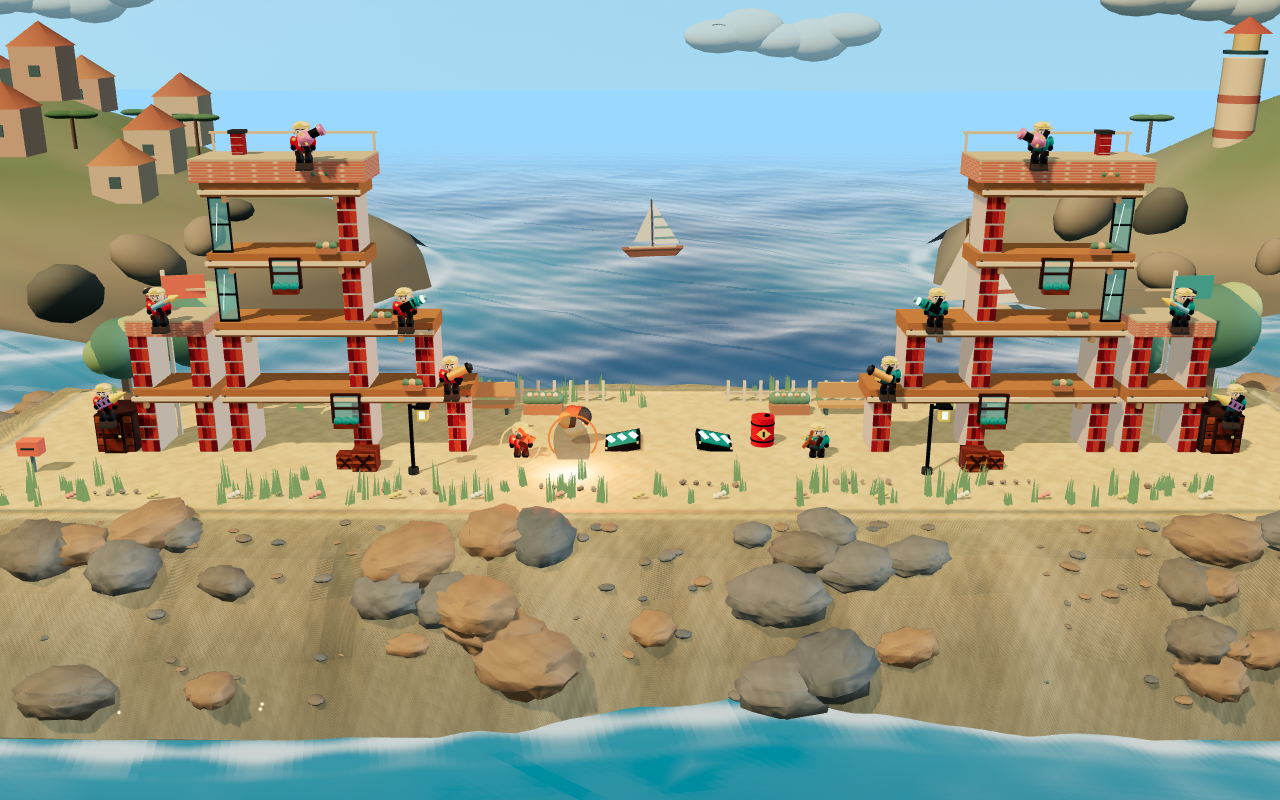
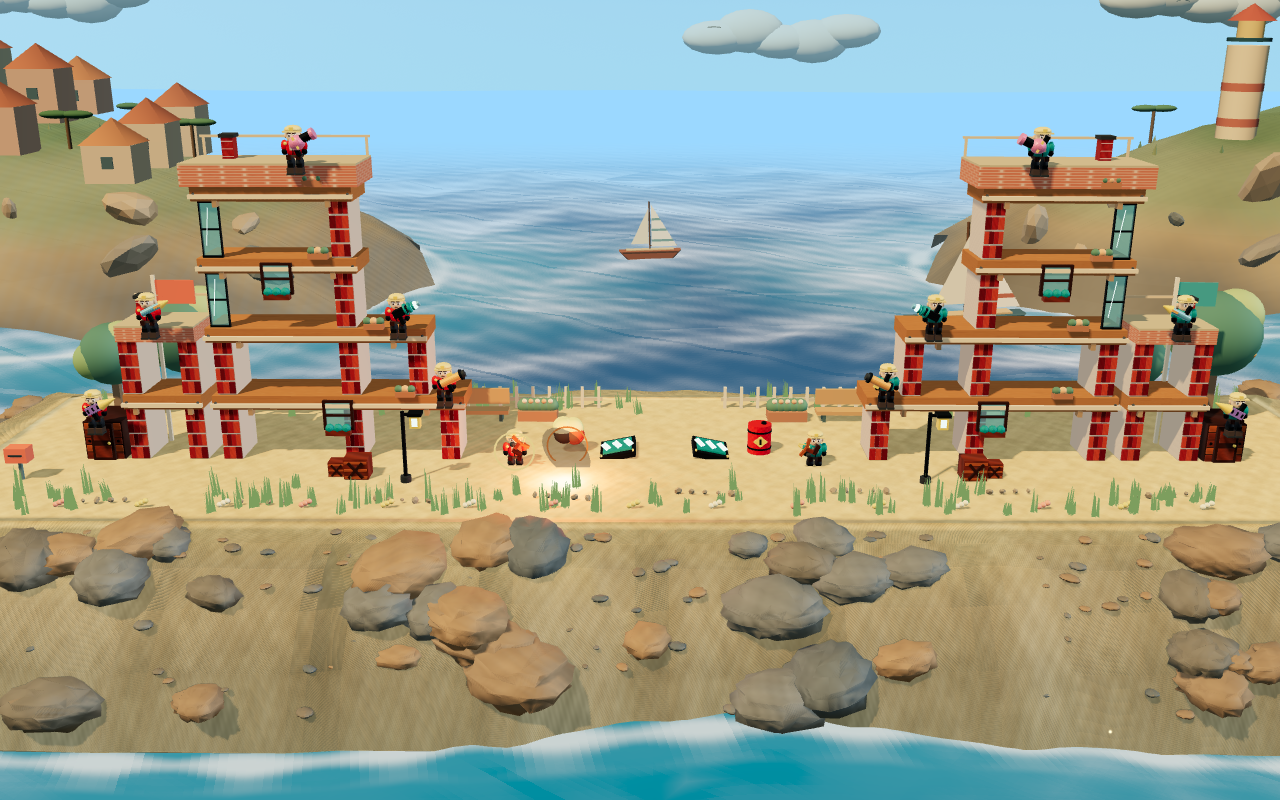
feat: overhaul headlands environment with procedural shaders, PBR materials, and scrub scatter

diff --git a/public/environment.js b/public/environment.js
@@ -206,7 +206,14 @@ export function createEnvironment(scene, renderer) {
     const object = new T.Mesh(geometry, material(color)); object.position.set(...position); object.scale.set(...scale);
     object.castShadow = false; object.receiveShadow = false; parent.add(object); return object;
   }
-  const rock = new T.IcosahedronGeometry(1, 1), ball = new T.SphereGeometry(1, 12, 8);
+  const rock = new T.IcosahedronGeometry(1, constrained ? 1 : 2), ball = new T.SphereGeometry(1, 12, 8);
+  const rockPositions = rock.attributes.position;
+  for (let i = 0; i < rockPositions.count; i++) {
+    const x = rockPositions.getX(i), y = rockPositions.getY(i), z = rockPositions.getZ(i);
+    const variation = 1 + Math.sin(x * 7.1 + z * 4.3) * .1 + Math.sin(y * 9.7 - x * 3.4) * .055;
+    rockPositions.setXYZ(i, x * variation * 1.08, y * variation * .82, z * variation);
+  }
+  rock.computeVertexNormals();
   const cube = new T.BoxGeometry(1, 1, 1), cylinder = new T.CylinderGeometry(1, 1, 1, 12);
   const roofGeometry = new T.ConeGeometry(1, 1, 4);
   const headlands = [
@@ -214,45 +221,86 @@ export function createEnvironment(scene, renderer) {
     { side: 1, x: 60, z: -54, rx: 39, rz: 24 }
   ];
   function coastHeight(land, x, z) {
-    const r = Math.min(1, Math.hypot((x - land.x) / land.rx, (z - land.z) / land.rz));
-    return -4.65 + 16 * Math.pow(1 - r, .7)
-      + (Math.sin(x * .27 + z * .11) + Math.sin(x * .53 - z * .38) * .45) * (1 - r) * 2.2;
+    const dx = (x - land.x) / land.rx, dz = (z - land.z) / land.rz;
+    const r = Math.min(1, Math.hypot(dx, dz)), angle = Math.atan2(dz, dx);
+    const ridge = Math.sin(angle * 3 + land.side * .8) * .8 + Math.sin(angle * 7 - r * 5) * .34;
+    const erosion = Math.sin(x * .22 + z * .13) * .72 + Math.sin(x * .49 - z * .31) * .3;
+    const cliff = Math.sin(angle * 11 + r * 8) * Math.pow(r, 4) * .34;
+    return -4.65 + 16.4 * Math.pow(1 - r, .68) + (ridge + erosion) * (1 - r) * 1.25 + cliff;
   }
+  const headlandNormal = normalMap(19); headlandNormal.repeat.set(5, 3); headlandNormal.anisotropy = Math.min(8, renderer.capabilities.getMaxAnisotropy());
+  const headlandMaterial = new T.MeshStandardMaterial({ vertexColors: true, side: T.DoubleSide, roughness: .94, metalness: 0, normalMap: headlandNormal, normalScale: new T.Vector2(.34, .34), envMapIntensity: .32 });
+  headlandMaterial.onBeforeCompile = shader => {
+    shader.vertexShader = shader.vertexShader.replace('#include <common>', `
+      #include <common>
+      varying vec3 vHeadlandWorld;
+    `).replace('#include <begin_vertex>', `
+      #include <begin_vertex>
+      vHeadlandWorld = (modelMatrix * vec4(transformed, 1.0)).xyz;
+    `);
+    shader.fragmentShader = shader.fragmentShader.replace('#include <common>', `
+      #include <common>
+      varying vec3 vHeadlandWorld;
+      float coastHash(vec2 p) { return fract(sin(dot(p, vec2(127.1, 311.7))) * 43758.5453); }
+      float coastNoise(vec2 p) {
+        vec2 i = floor(p), f = fract(p); f = f * f * (3.0 - 2.0 * f);
+        return mix(mix(coastHash(i), coastHash(i + vec2(1., 0.)), f.x), mix(coastHash(i + vec2(0., 1.)), coastHash(i + 1.), f.x), f.y);
+      }
+    `).replace('#include <color_fragment>', `
+      #include <color_fragment>
+      float coastMacro = coastNoise(vHeadlandWorld.xz * .095);
+      float coastGrain = coastNoise(vHeadlandWorld.xz * .72 + coastMacro * 2.4);
+      diffuseColor.rgb *= .86 + coastMacro * .2 + coastGrain * .07;
+      float strata = smoothstep(.46, .54, sin(vHeadlandWorld.y * 2.15 + coastMacro * 2.0) * .5 + .5);
+      diffuseColor.rgb = mix(diffuseColor.rgb, diffuseColor.rgb * vec3(.83, .79, .72), strata * .12);
+    `).replace('#include <roughnessmap_fragment>', `
+      #include <roughnessmap_fragment>
+      roughnessFactor = clamp(roughnessFactor + (coastGrain - .5) * .08, .82, 1.0);
+    `);
+  };
+  headlandMaterial.customProgramCacheKey = () => 'headland-pbr-v2';
+  const headlandRockMaterial = new T.MeshStandardMaterial({ color: 0xffffff, roughness: .91, metalness: 0, envMapIntensity: .38 });
   for (const land of headlands) {
-    // Concentric height rings form real sloped terrain rather than stacked giant rocks.
-    const segments = 28, radii = [0, .18, .36, .54, .7, .84, .94, 1];
-    const vertices = [], colors = [], indices = [];
-    for (const r of radii) for (let i = 0; i < segments; i++) {
+    // A radial LOD mesh gives the distant coast a clean silhouette without a heavy GLB.
+    const segments = constrained ? 44 : 72, ringCount = constrained ? 11 : 17;
+    const vertices = [land.x, coastHeight(land, land.x, land.z), land.z], colors = [], uvs = [.5, .5], indices = [];
+    const centerColor = new T.Color(0x718a63); colors.push(centerColor.r, centerColor.g, centerColor.b);
+    for (let ring = 1; ring <= ringCount; ring++) for (let i = 0; i < segments; i++) {
+      const r = ring / ringCount;
       const angle = i / segments * Math.PI * 2;
-      const edge = 1 + (Math.sin(angle * 5 + land.side) * .045 + Math.sin(angle * 9) * .025) * r;
+      const edge = 1 + (Math.sin(angle * 5 + land.side) * .04 + Math.sin(angle * 9) * .022 + Math.sin(angle * 17) * .009) * r;
       const x = land.x + Math.cos(angle) * land.rx * r * edge;
       const z = land.z + Math.sin(angle) * land.rz * r * edge;
       const y = coastHeight(land, x, z);
       vertices.push(x, y, z);
-      const color = new T.Color(y > 4 ? 0x829973 : y > 0 ? 0x99a084 : y > -2 ? 0xa6a08d : 0x82837a);
-      color.multiplyScalar(.92 + .08 * Math.sin(x * .45 + z * .31));
+      const color = new T.Color(y > 5.5 ? 0x718a63 : y > 1.2 ? 0x87916f : y > -1.5 ? 0x9b8d70 : 0x77756a);
+      color.multiplyScalar(.9 + .09 * Math.sin(x * .37 + z * .23) + .035 * Math.sin(x * 1.3 - z));
       colors.push(color.r, color.g, color.b);
+      uvs.push((x - land.x) / land.rx * 2.5 + .5, (z - land.z) / land.rz * 2.5 + .5);
     }
-    for (let ring = 0; ring < radii.length - 1; ring++) for (let i = 0; i < segments; i++) {
-      const a = ring * segments + i, b = ring * segments + (i + 1) % segments;
-      const c = (ring + 1) * segments + i, d = (ring + 1) * segments + (i + 1) % segments;
+    for (let i = 0; i < segments; i++) indices.push(0, 1 + i, 1 + (i + 1) % segments);
+    for (let ring = 1; ring < ringCount; ring++) for (let i = 0; i < segments; i++) {
+      const a = 1 + (ring - 1) * segments + i, b = 1 + (ring - 1) * segments + (i + 1) % segments;
+      const c = 1 + ring * segments + i, d = 1 + ring * segments + (i + 1) % segments;
       indices.push(a, b, c, b, d, c);
     }
     const terrain = new T.BufferGeometry(); terrain.setAttribute('position', new T.Float32BufferAttribute(vertices, 3));
-    terrain.setAttribute('color', new T.Float32BufferAttribute(colors, 3)); terrain.setIndex(indices); terrain.computeVertexNormals();
-    const coast = new T.Mesh(terrain, new T.MeshLambertMaterial({ vertexColors: true, side: T.DoubleSide }));
+    terrain.setAttribute('color', new T.Float32BufferAttribute(colors, 3)); terrain.setAttribute('uv', new T.Float32BufferAttribute(uvs, 2)); terrain.setIndex(indices); terrain.computeVertexNormals();
+    const coast = new T.Mesh(terrain, headlandMaterial);
     coast.name = land.side < 0 ? 'Village headland' : 'Lighthouse headland'; scene.add(coast);
-    const stones = new T.InstancedMesh(rock, material(0xffffff), 14), instance = new T.Object3D();
-    stones.name = 'Headland rock clusters'; scene.add(stones);
-    for (let i = 0; i < 14; i++) {
-      const angle = .13 * Math.PI + i / 13 * .74 * Math.PI;
-      const r = .76 + i % 4 * .055;
+    const stoneCount = constrained ? 22 : 38;
+    const stones = new T.InstancedMesh(rock, headlandRockMaterial, stoneCount), instance = new T.Object3D();
+    stones.name = 'Headland rock clusters'; stones.receiveShadow = true; scene.add(stones);
+    for (let i = 0; i < stoneCount; i++) {
+      const angle = .1 * Math.PI + i / Math.max(1, stoneCount - 1) * .8 * Math.PI;
+      const r = .68 + (i * 7 % 17) / 17 * .29;
       const x = land.x + Math.cos(angle) * land.rx * r, z = land.z + Math.sin(angle) * land.rz * r;
-      const size = 1.0 + i % 5 * .4;
-      instance.position.set(x, coastHeight(land, x, z) + size * .28, z);
-      instance.scale.set(size * 1.4, size * .8, size); instance.rotation.set(i * .13, i * 1.7, i * .3); instance.updateMatrix();
-      stones.setMatrixAt(i, instance.matrix); stones.setColorAt(i, new T.Color(i % 3 ? 0xa39d8c : 0x787e77));
+      const size = .55 + (i * 11 % 9) * .17;
+      instance.position.set(x, coastHeight(land, x, z) + size * .22, z);
+      instance.scale.set(size * (1.1 + i % 3 * .18), size * (.62 + i % 4 * .07), size); instance.rotation.set(i * .17, i * 1.37, i * .23); instance.updateMatrix();
+      stones.setMatrixAt(i, instance.matrix); stones.setColorAt(i, new T.Color([0x8e897b, 0xa3947c, 0x6f7772, 0xb09a7b][i % 4]));
     }
+    stones.instanceMatrix.needsUpdate = true; if (stones.instanceColor) stones.instanceColor.needsUpdate = true;
     stones.computeBoundingSphere();
   }
   // The left slope carries a small stepped village; roofs follow the terrain.
@@ -293,6 +341,19 @@ export function createEnvironment(scene, renderer) {
     treeIndex++;
   }
   trunks.computeBoundingSphere(); leaves.computeBoundingSphere();
+  const shrubCount = constrained ? 28 : 48;
+  const shrubGeometry = new T.ConeGeometry(.42, 1.15, 5);
+  shrubGeometry.translate(0, .55, 0);
+  const shrubs = new T.InstancedMesh(shrubGeometry, new T.MeshStandardMaterial({ color: 0xffffff, roughness: .96 }), shrubCount);
+  shrubs.name = 'Headland scrub scatter'; scene.add(shrubs);
+  for (let i = 0; i < shrubCount; i++) {
+    const land = headlands[i % 2], angle = i * 2.399 + (land.side < 0 ? .4 : 1.1), r = .42 + (i * 5 % 13) / 13 * .39;
+    const x = land.x + Math.cos(angle) * land.rx * r, z = land.z + Math.sin(angle) * land.rz * r;
+    const size = .42 + (i * 7 % 6) * .09;
+    instance.position.set(x, coastHeight(land, x, z), z); instance.rotation.set(0, angle + i * .31, (i % 3 - 1) * .08); instance.scale.set(size * .72, size, size * .72); instance.updateMatrix();
+    shrubs.setMatrixAt(i, instance.matrix); shrubs.setColorAt(i, new T.Color(i % 3 ? 0x607957 : 0x7d875c));
+  }
+  shrubs.instanceMatrix.needsUpdate = true; if (shrubs.instanceColor) shrubs.instanceColor.needsUpdate = true; shrubs.computeBoundingSphere();
   const lighthouseLand = headlands[1], lighthouse = new T.Group();
   lighthouse.position.set(43, coastHeight(lighthouseLand, 43, -51), -51); scene.add(lighthouse);
   shape(cylinder, 0xffe8c4, [0, 3.3, 0], [1.4, 6.6, 1.4], lighthouse);
@@ -354,6 +415,8 @@ export function createEnvironment(scene, renderer) {
     waterMode: 'gerstner-lod',
     waterReflection: 'pmrem-hdr',
     shorelineFoam: 'terrain-depth',
+    headlandQuality: constrained ? 'pbr-radial-balanced' : 'pbr-radial-high',
+    headlandScatter: constrained ? 72 : 124,
     waterQuality: constrained ? 'balanced' : 'high',
     motionLayers: 'gerstner-water-boats-clouds-spray',
     motionSample: () => ({ waveTime: waterMaterials[0].uniforms.uTime.value, boatX: boats[0].position.x, cloudX: clouds[0].position.x }),

diff --git a/tests/art.spec.js b/tests/art.spec.js
@@ -144,6 +144,8 @@ test('environment meshes render and a fuel blast produces bounded effects and au
   await expect(page.locator('#scene')).toHaveAttribute('data-water-shader', 'gerstner-lod');
   await expect(page.locator('#scene')).toHaveAttribute('data-water-reflection', 'pmrem-hdr');
   await expect(page.locator('#scene')).toHaveAttribute('data-shoreline-foam', 'terrain-depth');
+  await expect(page.locator('#scene')).toHaveAttribute('data-headland-quality', /pbr-radial-(balanced|high)/);
+  await expect(page.locator('#scene')).toHaveAttribute('data-headland-scatter', /^(72|124)$/);
   await expect(page.locator('#scene')).toHaveAttribute('data-water-quality', /^(balanced|high)$/);
   await expect(page.locator('#scene')).toHaveAttribute('data-environment-motion', 'gerstner-water-boats-clouds-spray');
   const firstMotion = await page.evaluate(() => window.environmentScene.environmentMotion());

diff --git a/public/scene.js b/public/scene.js
@@ -69,6 +69,7 @@ export function createScene(container) {
   container.dataset.environmentBackdrop = 'loading';
   container.dataset.waterShader = environment.waterMode; container.dataset.waterQuality = environment.waterQuality;
   container.dataset.waterReflection = environment.waterReflection; container.dataset.shorelineFoam = environment.shorelineFoam;
+  container.dataset.headlandQuality = environment.headlandQuality; container.dataset.headlandScatter = String(environment.headlandScatter);
   container.dataset.environmentMotion = environment.motionLayers;
   environment.lightingReady.then(source => { container.dataset.environmentLighting = source; });
   environment.backgroundReady.then(source => { container.dataset.environmentBackdrop = source; });

diff --git a/README.md b/README.md
@@ -89,7 +89,7 @@ Browser tests dùng Google Chrome đã cài trên máy và touch events qua CDP.
 
 Mỗi bên có sáu cư dân. Phải loại hết sáu người mới thắng; điện thoại luân phiên điều khiển cư dân đang đến lượt của đội. HUD hiển thị đủ cư dân và vừa màn hình hẹp; hình thu nhỏ tự căn theo kích thước nhà.
 
-Cảnh vịnh biển dùng bầu trời shader và đại dương ba tầng LOD bám theo camera. Mặt nước kết hợp tám lớp Gerstner Wave, hai normal map thủ tục chạy chéo, Fresnel phản chiếu HDR, màu theo độ sâu, foam ở đỉnh sóng/đường bờ và splash particle tại đá ven nước. Địa hình GLB giữ vertex color, normal map và roughness rồi được phủ chi tiết cát triplanar ở runtime; rock kit dùng atlas PBR, vertex height-blend, sỏi rải và contact decal. Cỏ ven biển dùng density mask, bụi bảy lá instanced, wind shader và hai mức LOD theo camera/thiết bị. Địa hình, hai mũi đất, làng bậc thang, hải đăng, thuyền buồm hai cánh có vệt nước và mây đều nằm trong không gian 3D — không còn lấy ảnh tĩnh làm nền hiển thị. Chi tiết cảnh xa dùng instancing và tự hạ mật độ biển/tắt SSAO trên thiết bị yếu hoặc renderer tự động để giữ thao tác mượt. Máy đủ mạnh dùng SSAO/contact shadow, bloom nhẹ và coastal color grading; cấu hình yếu giữ pipeline cân bằng. Nhà thêm mái dốc, ống khói, gờ sàn và bồn hoa gắn theo từng khối. Chi tiết trang trí không có collider riêng; hình khối chịu lực vẫn theo dữ liệu map. Cảnh nền không tham gia va chạm và dừng chuyển động khi bật reduced motion.
+Cảnh vịnh biển dùng bầu trời shader và đại dương ba tầng LOD bám theo camera. Mặt nước kết hợp tám lớp Gerstner Wave, hai normal map thủ tục chạy chéo, Fresnel phản chiếu HDR, màu theo độ sâu, foam ở đỉnh sóng/đường bờ và splash particle tại đá ven nước. Địa hình GLB giữ vertex color, normal map và roughness rồi được phủ chi tiết cát triplanar ở runtime; rock kit dùng atlas PBR, vertex height-blend, sỏi rải và contact decal. Cỏ ven biển dùng density mask, bụi bảy lá instanced, wind shader và hai mức LOD theo camera/thiết bị. Hai mũi đồi hậu cảnh dùng radial LOD, PBR normal detail, màu theo cao độ, strata thủ tục, đá biến dạng và bụi cây instanced; mật độ tự giảm trên thiết bị yếu. Địa hình, làng bậc thang, hải đăng, thuyền buồm hai cánh có vệt nước và mây đều nằm trong không gian 3D — không còn lấy ảnh tĩnh làm nền hiển thị. Chi tiết cảnh xa dùng instancing và tự hạ mật độ biển/tắt SSAO trên thiết bị yếu hoặc renderer tự động để giữ thao tác mượt. Máy đủ mạnh dùng SSAO/contact shadow, bloom nhẹ và coastal color grading; cấu hình yếu giữ pipeline cân bằng. Nhà thêm mái dốc, ống khói, gờ sàn và bồn hoa gắn theo từng khối. Chi tiết trang trí không có collider riêng; hình khối chịu lực vẫn theo dữ liệu map. Cảnh nền không tham gia va chạm và dừng chuyển động khi bật reduced motion.
 
 ## Cư dân tự bắn và vũ khí riêng
 
